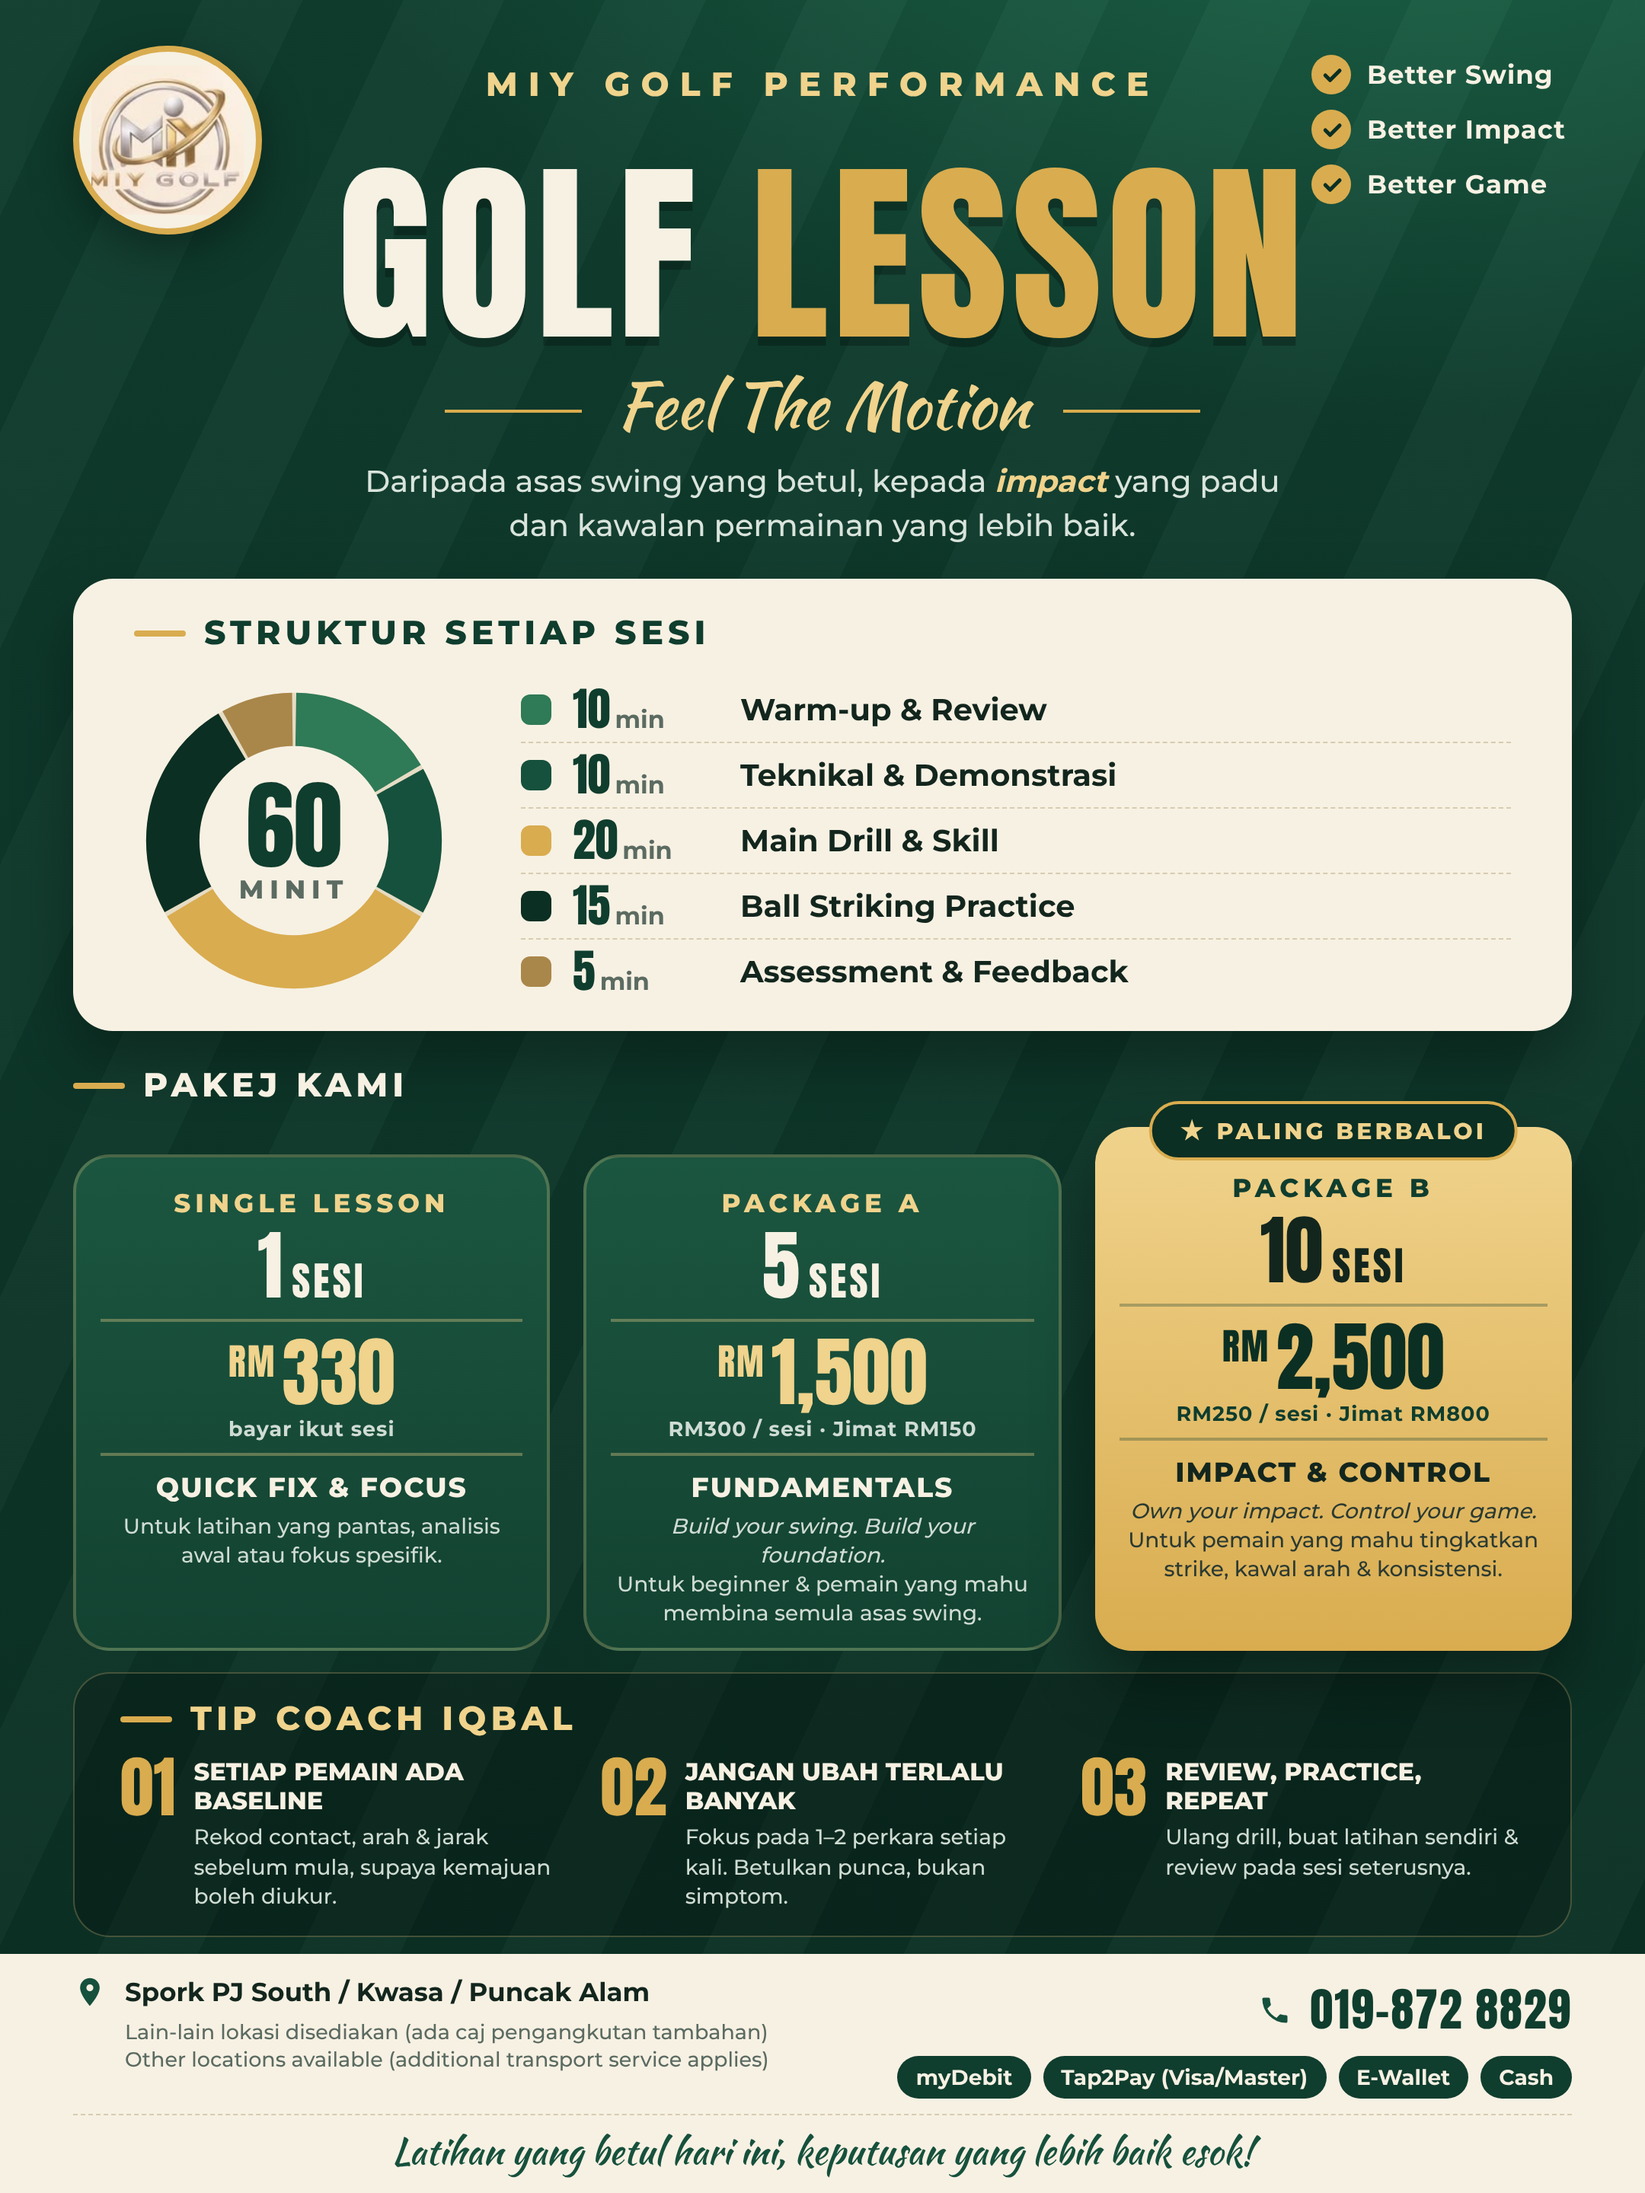
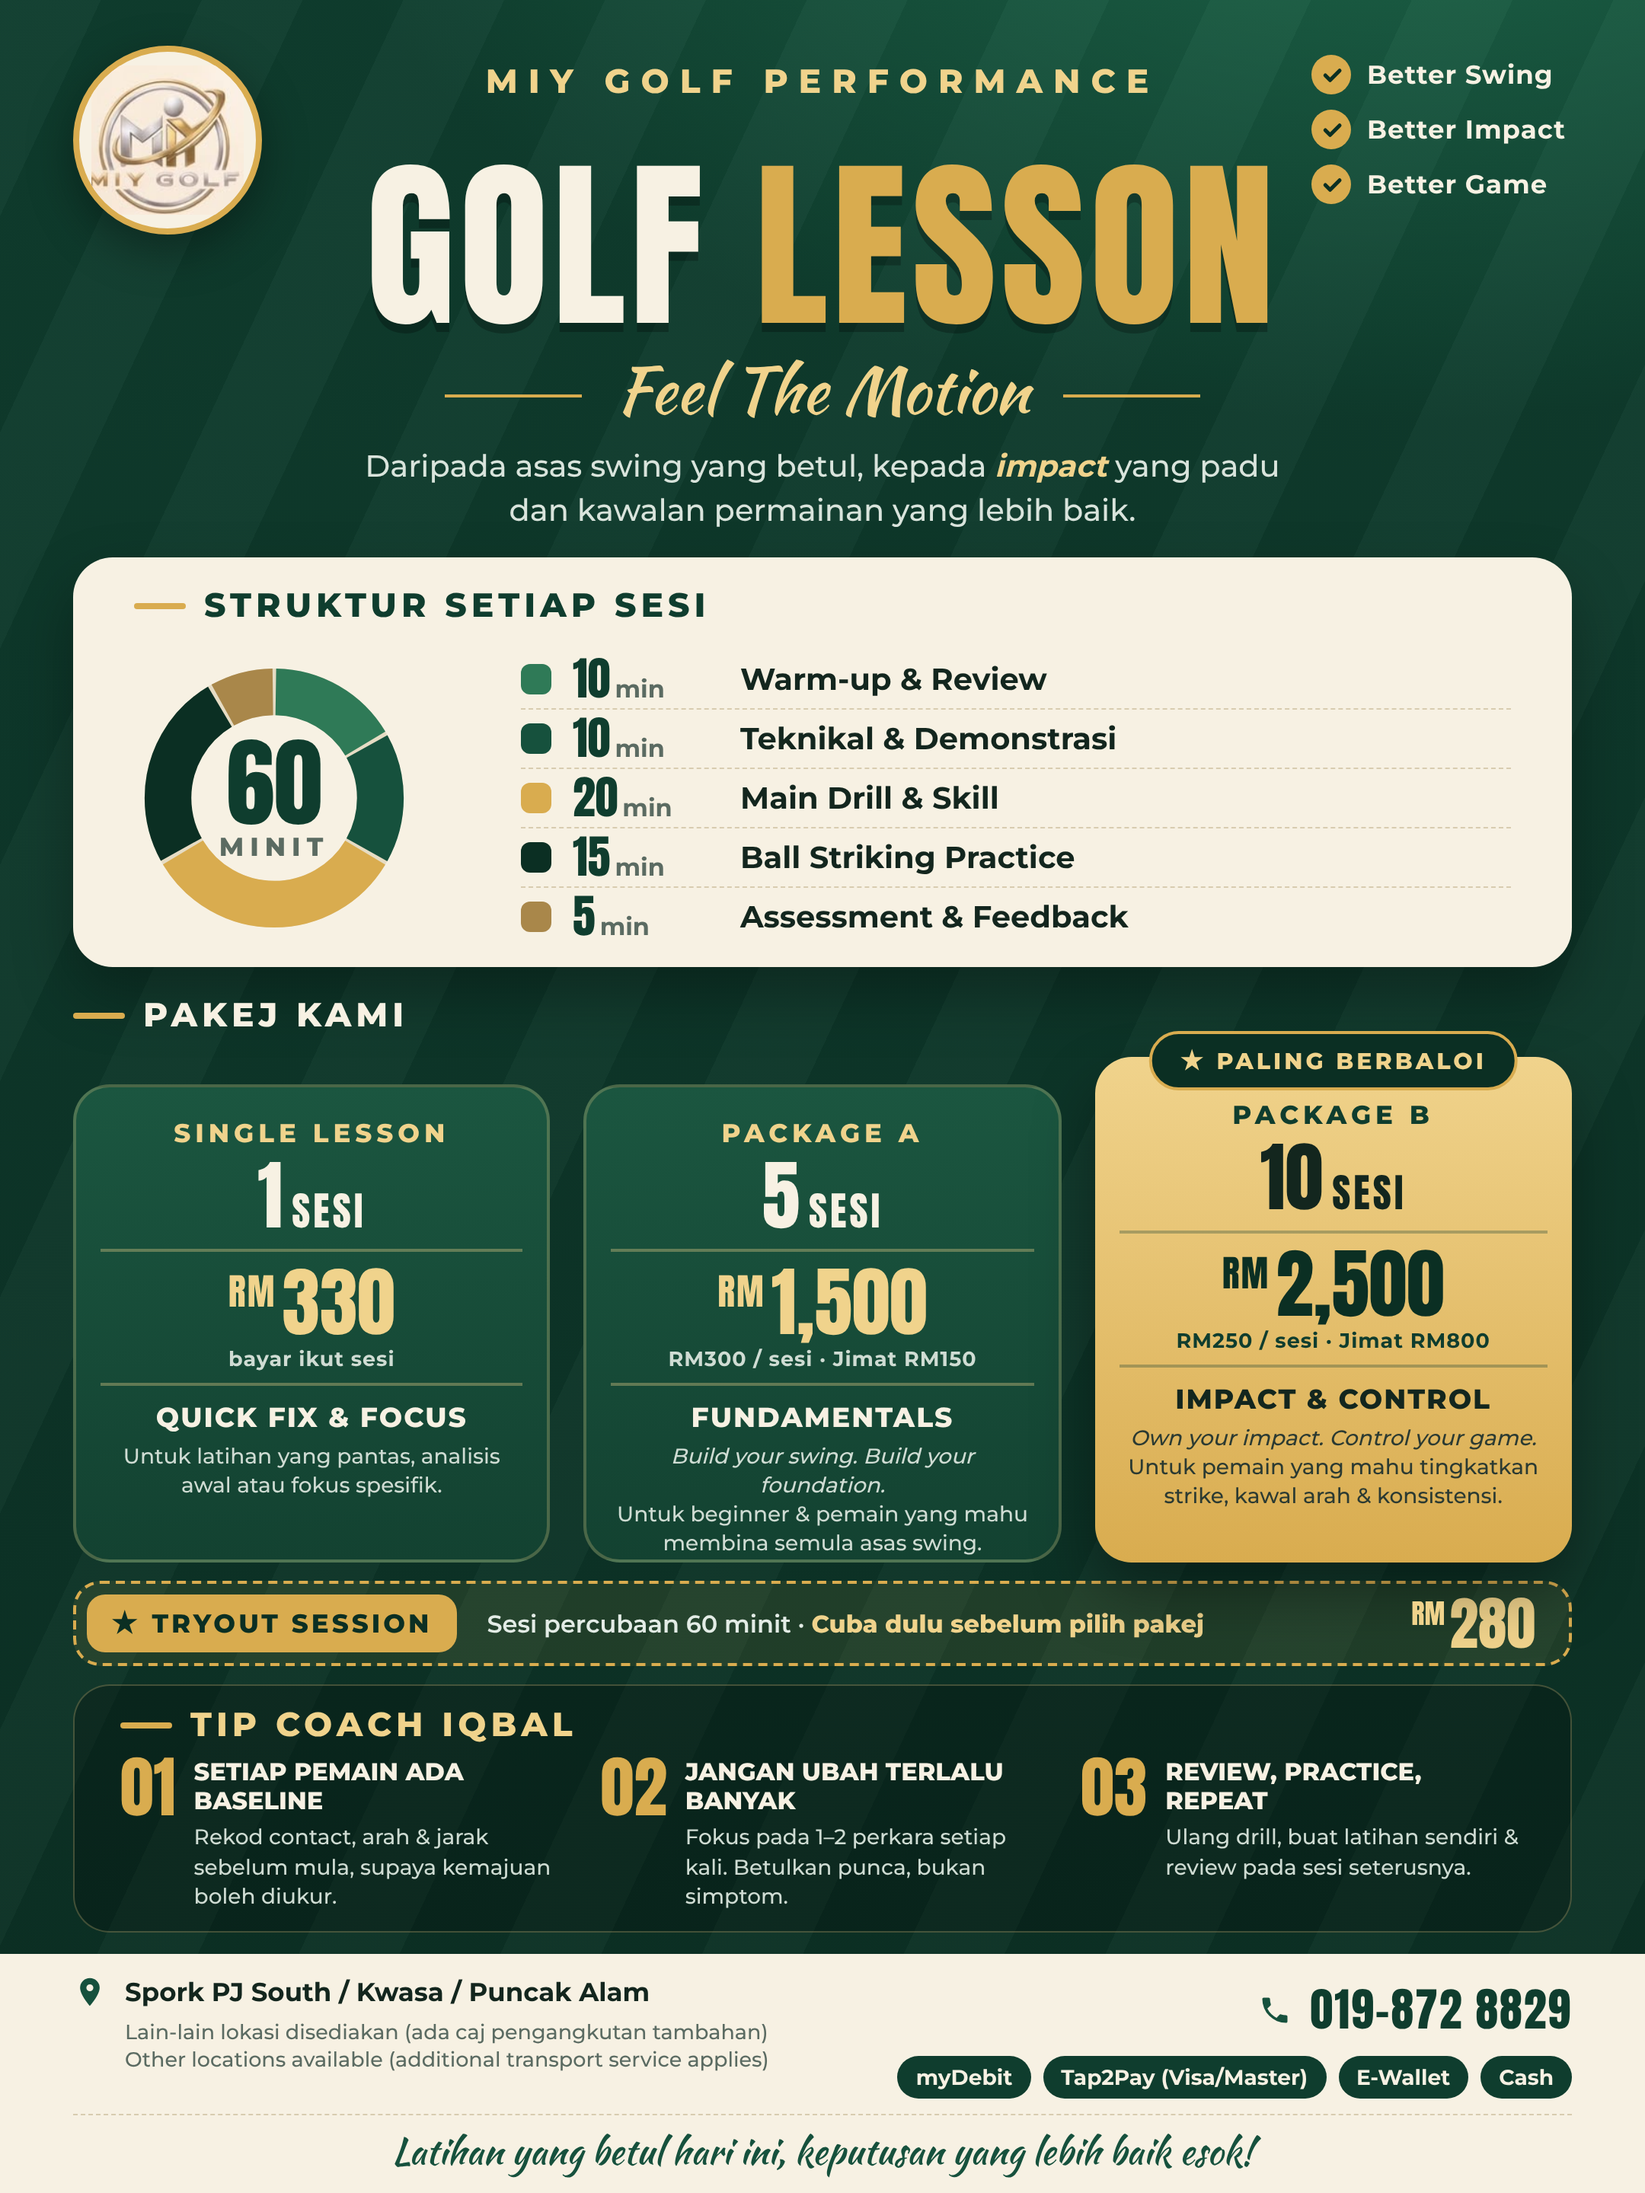
Poster v2: add RM280 tryout session strip below packages
Claude-Session: https://claude.ai/code/session_014MDgBZbMwKcGgxmE4k56x7

Changed region(s): [[0.031, 0.0312, 0.9616, 0.8125], [0.4653, 0.0312, 0.4963, 0.0625]]

diff --git a/poster/golf-lesson-v2.html b/poster/golf-lesson-v2.html
@@ -30,7 +30,7 @@
   }
 
   /* ---------- HEADER ---------- */
-  .header{position:relative;padding:32px 56px 20px 56px}
+  .header{position:relative;padding:30px 56px 16px 56px}
   .logo{
     position:absolute;left:48px;top:30px;width:124px;height:124px;border-radius:50%;
     background:var(--cream);border:4px solid var(--gold);overflow:hidden;
@@ -48,7 +48,7 @@
   .titles{text-align:center;padding-top:6px}
   .brand{font-weight:800;letter-spacing:7px;font-size:22px;color:var(--gold-light);margin-top:4px}
   h1{
-    font-family:'Anton',sans-serif;font-weight:400;font-size:128px;line-height:1;letter-spacing:3px;
+    font-family:'Anton',sans-serif;font-weight:400;font-size:120px;line-height:1;letter-spacing:3px;
     margin-top:34px;color:var(--cream);text-shadow:0 6px 0 rgba(0,0,0,.25);
   }
   h1 span{color:var(--gold)}
@@ -71,18 +71,18 @@
   /* ---------- SESSION STRUCTURE ---------- */
   .session{
     margin:0 48px;background:var(--cream);color:var(--ink);border-radius:26px;
-    padding:22px 40px 18px 40px;display:grid;grid-template-columns:210px 1fr;gap:16px 44px;align-items:center;
+    padding:18px 40px 14px 40px;display:grid;grid-template-columns:210px 1fr;gap:16px 44px;align-items:center;
     box-shadow:0 18px 40px rgba(0,0,0,.3);
   }
   .session .label{color:var(--green-800);grid-column:1/-1;margin-bottom:0}
-  .donut{position:relative;width:210px;height:210px}
+  .donut{position:relative;width:184px;height:184px}
   .donut svg{width:100%;height:100%;transform:rotate(-90deg)}
   .donut .center{position:absolute;inset:0;display:flex;flex-direction:column;align-items:center;justify-content:center}
   .donut .center b{font-family:'Anton',sans-serif;font-weight:400;font-size:64px;line-height:1;color:var(--green-800)}
   .donut .center span{font-weight:800;font-size:17px;letter-spacing:4px;color:var(--muted)}
   .steps{list-style:none;display:flex;flex-direction:column;gap:0}
   .steps li{display:grid;grid-template-columns:20px 96px 1fr;align-items:center;gap:14px;
-    padding:6px 0;border-bottom:1.5px dashed #d8ccb0}
+    padding:4px 0;border-bottom:1.5px dashed #d8ccb0}
   .steps li:last-child{border-bottom:0}
   .dot{width:20px;height:20px;border-radius:6px}
   .mins{font-family:'Anton',sans-serif;font-size:30px;line-height:1;color:var(--green-800)}
@@ -91,17 +91,17 @@
   .step-name small{display:block;font-weight:500;font-size:15px;color:var(--muted);margin-top:2px}
 
   /* ---------- PACKAGES ---------- */
-  .packages{padding:22px 48px 0}
+  .packages{padding:18px 48px 0}
   .packages .label{color:var(--cream)}
   .cards{display:grid;grid-template-columns:repeat(3,1fr);gap:22px;margin-top:14px;align-items:end}
   .card{
     position:relative;border-radius:24px;padding:20px 16px 16px;text-align:center;
     background:linear-gradient(180deg,#1b5640,#134231);border:2px solid rgba(240,211,140,.25);
-    height:326px;display:flex;flex-direction:column;
+    height:314px;display:flex;flex-direction:column;
   }
   .card.best{
     background:linear-gradient(180deg,var(--gold-light),var(--gold));color:var(--ink);
-    border:0;height:344px;padding-top:30px;box-shadow:0 20px 40px rgba(0,0,0,.35);
+    border:0;height:332px;padding-top:28px;box-shadow:0 20px 40px rgba(0,0,0,.35);
   }
   .ribbon{
     position:absolute;top:-17px;left:50%;transform:translateX(-50%);white-space:nowrap;
@@ -124,10 +124,21 @@
   .desc{font-size:14px;font-weight:500;line-height:1.38;margin-top:5px;color:#cfdcd3}
   .card.best .desc{color:#2b3a32}
 
+
+  /* ---------- TRYOUT ---------- */
+  .tryout{margin:12px 48px 0;display:grid;grid-template-columns:auto 1fr auto;align-items:center;gap:20px;
+    padding:7px 14px 7px 7px;border-radius:18px;border:2px dashed var(--gold);background:rgba(217,172,79,.10)}
+  .tryout .tag{background:var(--gold);color:var(--green-900);font-weight:800;font-size:17px;letter-spacing:2px;
+    padding:9px 16px;border-radius:12px;text-transform:uppercase}
+  .tryout p{font-size:16px;font-weight:600;color:#e3ece6}
+  .tryout p b{color:var(--gold-light)}
+  .tryout .tp{font-family:'Anton',sans-serif;font-size:38px;line-height:1;color:var(--gold-light);padding-right:8px}
+  .tryout .tp sup{font-size:18px;vertical-align:top;position:relative;top:4px;margin-right:3px}
+
   /* ---------- TIPS ---------- */
-  .tips{margin:14px 48px 0;padding:16px 30px 16px;border-radius:24px;background:rgba(0,0,0,.22);border:1.5px solid rgba(240,211,140,.25)}
+  .tips{margin:12px 48px 0;padding:12px 30px 13px;border-radius:24px;background:rgba(0,0,0,.22);border:1.5px solid rgba(240,211,140,.25)}
   .tips .label{color:var(--gold-light)}
-  .tip-grid{display:grid;grid-template-columns:repeat(3,1fr);gap:24px;margin-top:12px}
+  .tip-grid{display:grid;grid-template-columns:repeat(3,1fr);gap:24px;margin-top:8px}
   .tip{display:grid;grid-template-columns:auto 1fr;gap:12px}
   .tip .n{font-family:'Anton',sans-serif;font-size:44px;line-height:.9;color:var(--gold)}
   .tip b{display:block;font-weight:800;font-size:16px;line-height:1.2;text-transform:uppercase}
@@ -221,6 +232,14 @@
       </div>
     </div>
   </section>
+
+
+  <!-- TRYOUT -->
+  <div class="tryout">
+    <span class="tag">★ Tryout Session</span>
+    <p>Sesi percubaan 60 minit · <b>Cuba dulu sebelum pilih pakej</b></p>
+    <span class="tp"><sup>RM</sup>280</span>
+  </div>
 
   <!-- TIPS -->
   <section class="tips">
